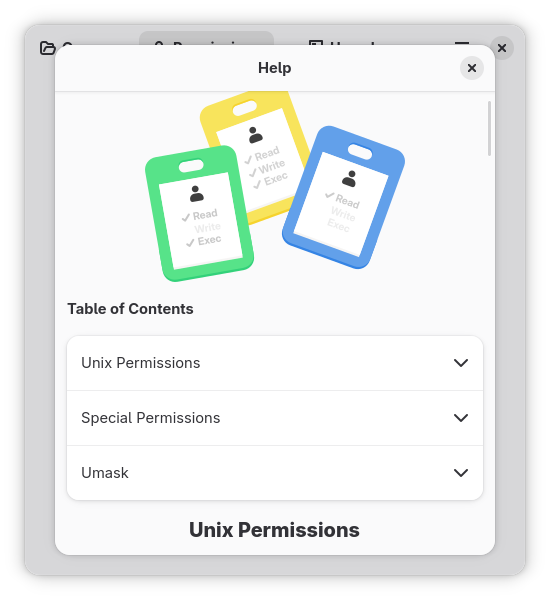
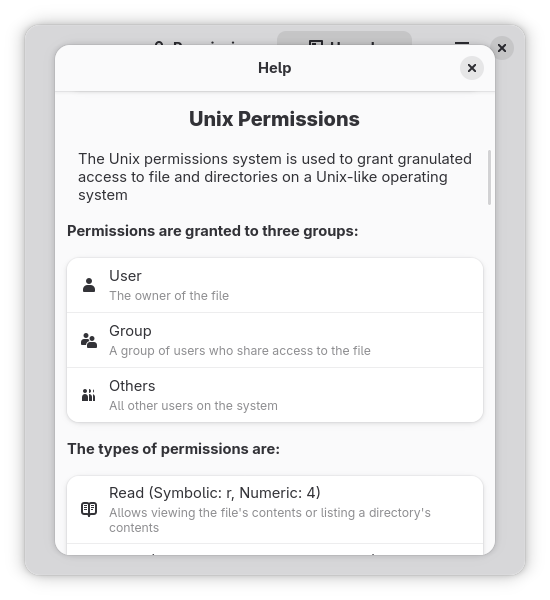
Updated README

Changed region(s): [[0.1236, 0.15, 0.8964, 0.9], [0.8036, 0.69, 0.8655, 0.72], [0.0618, 0.06, 0.1236, 0.09]]

diff --git a/README.md b/README.md
@@ -1,16 +1,18 @@
-![icon](/data/icons/io.github.ronniedroid.concessio.svg)
+![icon](/data/icons/hicolor/scalable/apps/io.github.ronniedroid.concessio.svg)
 
 # Concessio
 
 [![Please do not theme this app](https://stopthemingmy.app/badge.svg)](https://stopthemingmy.app)
 
 ![screenshot](/data/screenshots/main-page.png)
+![screenshot](/data/screenshots/umask-page.png)
 ![screenshot](/data/screenshots/help-page.png)
 
 ## Features:
 - Convert between symbolic and numeric representations of UNIX file permissions
 - Use toggle buttons to update the symbolic and numeric fields
 - Open a file to read it's permissions and convert them
+- Calculate the umask needed for a specific permission and see the consequences of it.
 - Open the help dialog to read and understand the UNIX permissions system
 
 
@@ -27,4 +29,6 @@ Contributions are welcome!. This project follows the [GNOME Code of Conduct](htt
 
 ## Roadmap
 
-- [ ] Update a file's permission
+- [x] Update a file's permission.
+- [x] Add umask support.
+- [ ] Add ACLs support (need to make libacl.vapi first).
